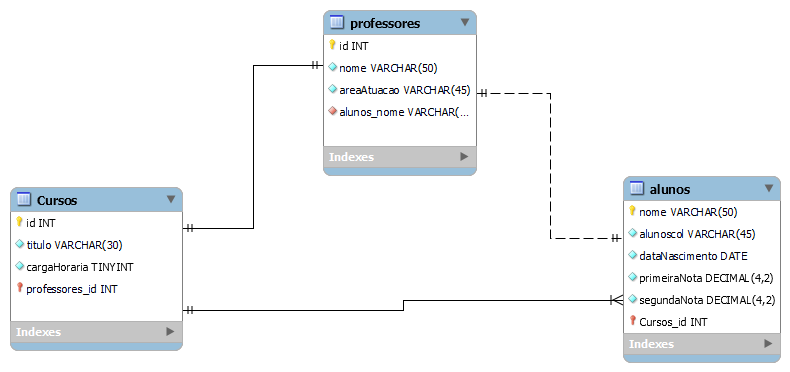
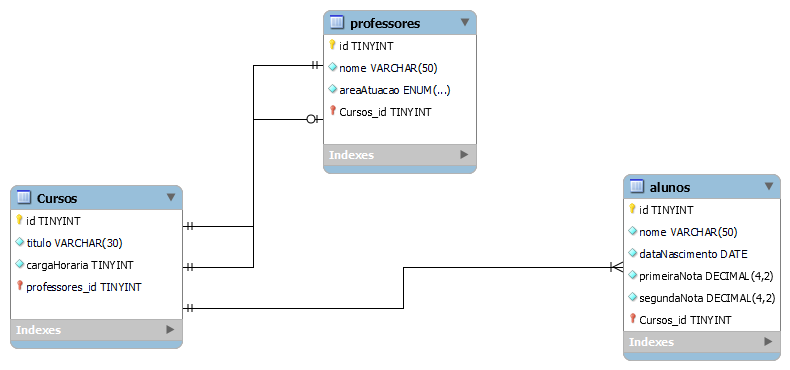
Exercícios de modelagem e operações em banco de dados

diff --git a/README.md b/README.md
@@ -1,3 +1,57 @@
 # Exercícios de modelagem e operações em banco de dados
 
 Faça as atividades de acordo com as orientações em cada etapa.
+
+```sql
+CREATE DATABASE tecinternet_escola_vitorGama CHARACTER SET utf8mb4;
+```
+
+```sql
+CREATE TABLE cursos (
+    id  TINYINT NOT NULL PRIMARY KEY AUTO_INCREMENT,
+    titulo NOT NULL VARCHAR(30),
+    cargaHoraria NOT NULL TINYINT ,
+    professores_id TINYINT NULL
+);
+
+CREATE TABLE professores (
+    id  TINYINT NOT NULL PRIMARY KEY AUTO_INCREMENT,
+    nome  VARCHAR(50) NOT NULL,
+    areaAtuacao  ENUM('design', 'desenvolvimento', 'infra') NOT NULL,
+    cursos_id TINYINT NOT NULL 
+);
+
+CREATE TABLE alunos (
+    id  TINYINT NOT NULL PRIMARY KEY AUTO_INCREMENT,
+    nome  VARCHAR(50) NOT NULL,
+    dataDeNascimento DATE NOT NULL ,
+    primeiraNota DECIMAL(4,2) NOT NULL ,
+    segundaNota DECIMAL(4,2) NOT NULL ,
+    cursos_id TINYINT NOT NULL 
+);
+
+```
+
+```sql
+ALTER TABLE cursos
+    ADD CONSTRAINT fk_cursos_professores1
+    FOREIGN KEY (professores_id) REFERENCES professores(id);
+
+ALTER TABLE professores 
+    ADD CONSTRAINT fk_professores_cursos1
+    FOREIGN KEY (cursos_id) REFERENCES cursos(id); 
+
+    ALTER TABLE alunos
+    ADD CONSTRAINT fk_alunos_cursos
+    FOREIGN KEY (cursos_id) REFERENCES cursos(id); 
+
+
+
+
+
+
+
+
+
+
+```
